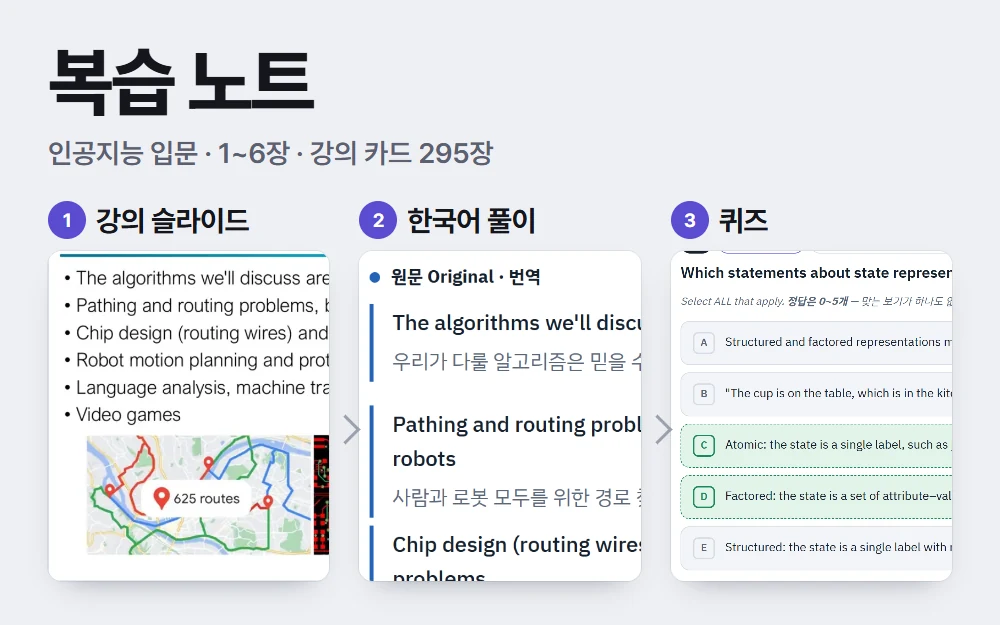
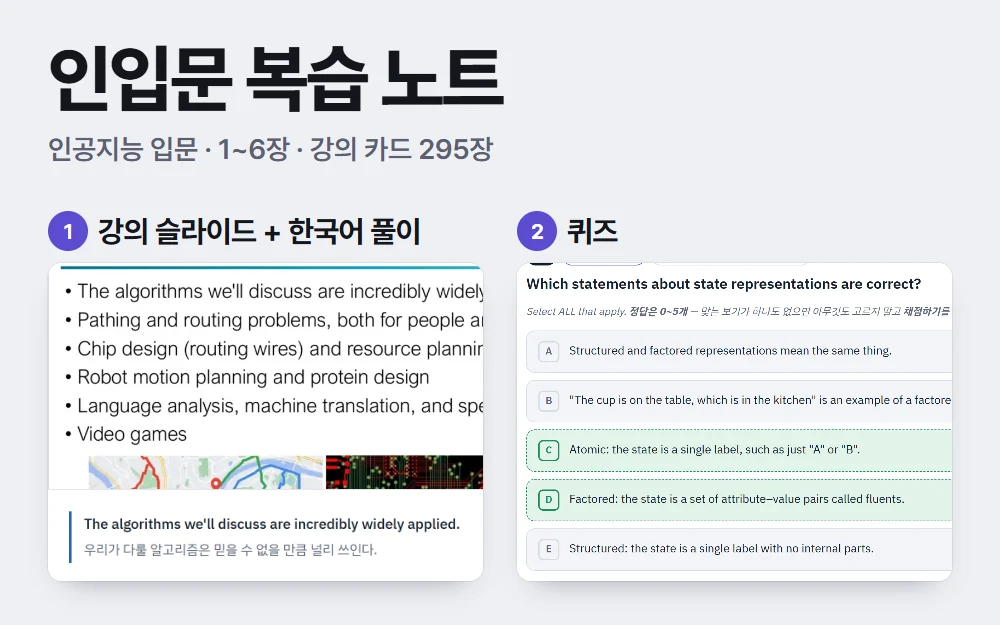
카드 견본: 제목을 과목 이름째(인입문·프밍기 복습 노트)로, 아래는 핵심 두 칸만

Changed region(s): [[0.031, 0.304, 0.961, 0.9424], [0.031, 0.0608, 0.527, 0.2736], [0.62, 0.912, 0.682, 0.9424]]

diff --git a/drafts/cards.html b/drafts/cards.html
@@ -32,11 +32,11 @@ img { display: block; width: 100%; aspect-ratio: 16 / 10; object-fit: cover; box
 <h2>지금 카드 · 견본 (첫 화면 고리 앞 카드 크기)</h2>
 <div class="pair">
   <figure><img src="../hub/shots/ai.webp" alt="지금 인공지능 입문 복습 노트 카드"><figcaption>지금 · 인공지능 입문 복습 노트</figcaption></figure>
-  <figure><img src="shots/card-ai.webp" alt="견본: 복습 노트, 강의 슬라이드 → 한국어 풀이 → 퀴즈"><figcaption>견본</figcaption></figure>
+  <figure><img src="shots/card-ai.webp" alt="견본: 인입문 복습 노트, 강의 슬라이드와 한국어 풀이 · 퀴즈"><figcaption>견본</figcaption></figure>
 </div>
 <div class="pair">
   <figure><img src="../hub/shots/study.webp" alt="지금 프로그래밍기초 복습 노트 카드"><figcaption>지금 · 프로그래밍기초 복습 노트</figcaption></figure>
-  <figure><img src="shots/card-study.webp" alt="견본: 복습 노트, 코드 → 실행 결과 → 퀴즈"><figcaption>견본</figcaption></figure>
+  <figure><img src="shots/card-study.webp" alt="견본: 프밍기 복습 노트, 코드와 실행 결과 · 퀴즈"><figcaption>견본</figcaption></figure>
 </div>
 
 <h2>공부 칸 다른 카드들 사이에서 (옆 카드 크기)</h2>
